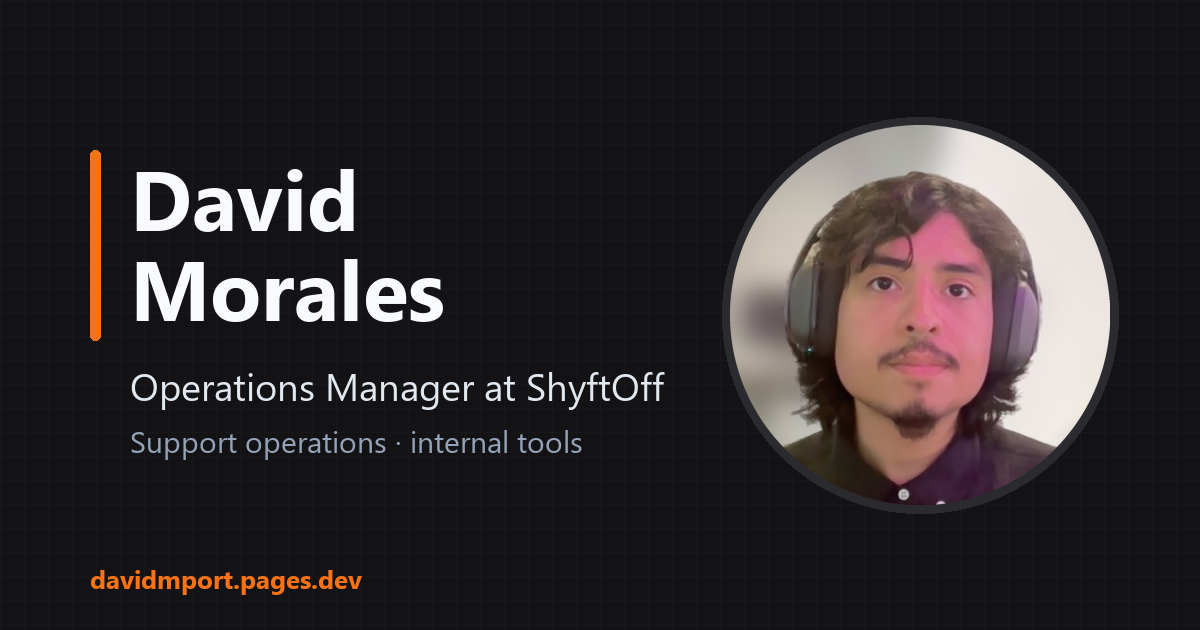
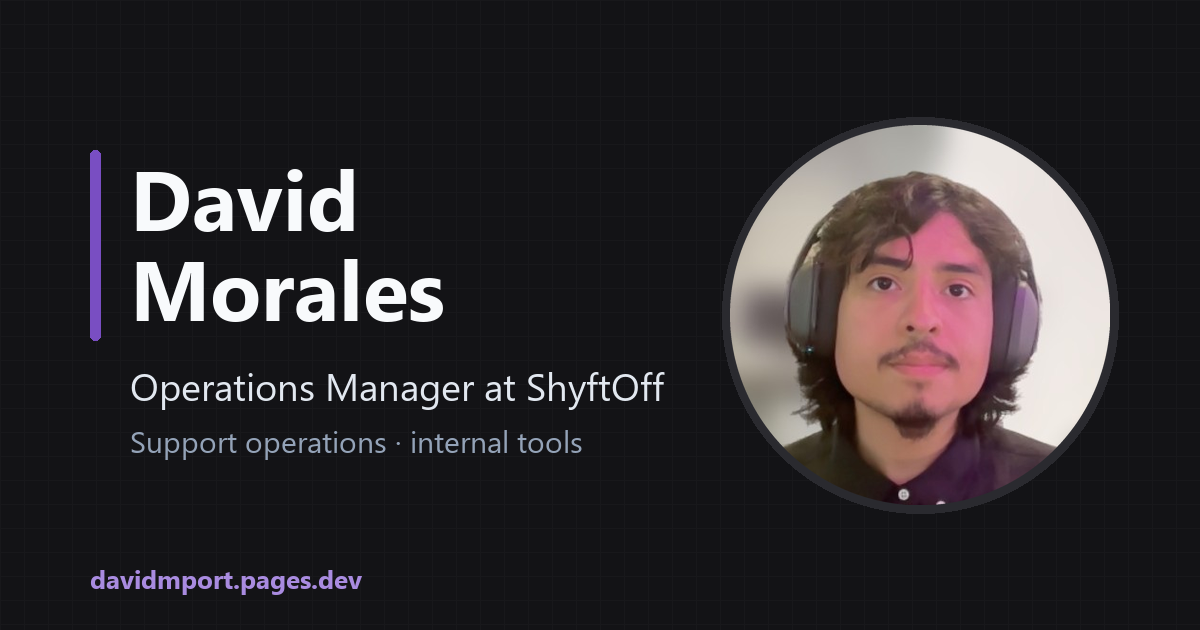
Switch accent color from orange to ShyftOff purple (#794EC2)
Adds primary-light (#A98BE0) for text on dark backgrounds to keep
contrast readable, and primary-dark for hover states.

Changed region(s): [[0.0617, 0.2413, 0.0925, 0.5429], [0.0617, 0.9048, 0.3083, 0.9349]]

diff --git a/src/components/layout/Navbar.tsx b/src/components/layout/Navbar.tsx
@@ -31,7 +31,7 @@ export function Navbar() {
             <Container className="flex items-center justify-between">
                 <a href="#top" className="flex items-center gap-2 group">
                     <div className="p-2 rounded-lg bg-surface group-hover:bg-primary/20 transition-colors">
-                        <Terminal className="w-5 h-5 text-primary" />
+                        <Terminal className="w-5 h-5 text-primary-light" />
                     </div>
                     <span className="font-heading font-bold text-xl tracking-tight text-text-primary">
                         David Morales
@@ -44,7 +44,7 @@ export function Navbar() {
                         <a
                             key={link.label}
                             href={link.href}
-                            className="text-sm font-medium text-text-secondary hover:text-primary transition-colors"
+                            className="text-sm font-medium text-text-secondary hover:text-primary-light transition-colors"
                         >
                             {link.label}
                         </a>
@@ -53,7 +53,7 @@ export function Navbar() {
                         href="/resume.pdf"
                         target="_blank"
                         rel="noopener noreferrer"
-                        className="text-sm font-medium text-text-secondary hover:text-primary transition-colors flex items-center gap-1"
+                        className="text-sm font-medium text-text-secondary hover:text-primary-light transition-colors flex items-center gap-1"
                     >
                         <FileText size={14} />
                         Resume
@@ -86,7 +86,7 @@ export function Navbar() {
                         <a
                             key={link.label}
                             href={link.href}
-                            className="text-lg font-medium text-text-secondary hover:text-primary"
+                            className="text-lg font-medium text-text-secondary hover:text-primary-light"
                             onClick={() => setIsMobileMenuOpen(false)}
                         >
                             {link.label}
@@ -96,7 +96,7 @@ export function Navbar() {
                         href="/resume.pdf"
                         target="_blank"
                         rel="noopener noreferrer"
-                        className="text-lg font-medium text-text-secondary hover:text-primary flex items-center gap-2"
+                        className="text-lg font-medium text-text-secondary hover:text-primary-light flex items-center gap-2"
                         onClick={() => setIsMobileMenuOpen(false)}
                     >
                         <FileText size={18} />

diff --git a/src/components/sections/Experience.tsx b/src/components/sections/Experience.tsx
@@ -129,7 +129,7 @@ export function Experience() {
                                     style={{ gridColumn: `span ${g.span}` }}
                                     className={clsx(
                                         "text-center text-xs font-semibold uppercase tracking-wider pb-2 border-b-2 transition-colors",
-                                        g.company === job.company ? "text-primary border-primary/60" : "text-slate-500 border-white/10"
+                                        g.company === job.company ? "text-primary-light border-primary/60" : "text-slate-500 border-white/10"
                                     )}
                                 >
                                     {g.company}
@@ -166,7 +166,7 @@ export function Experience() {
                                                     className={clsx(
                                                         "relative rounded-full border-2 transition-all",
                                                         isActive
-                                                            ? "h-5 w-5 bg-primary border-primary shadow-[0_0_16px_rgba(249,115,22,0.6)]"
+                                                            ? "h-5 w-5 bg-primary border-primary shadow-[0_0_16px_rgba(121,78,194,0.7)]"
                                                             : i < active
                                                                 ? "h-3.5 w-3.5 bg-primary/40 border-primary/60 group-hover:bg-primary/70"
                                                                 : "h-3.5 w-3.5 bg-background border-white/30 group-hover:border-primary/60",
@@ -176,7 +176,7 @@ export function Experience() {
                                             </span>
                                             <span className={clsx(
                                                 "mt-4 text-xs font-medium transition-colors",
-                                                isActive ? "text-primary" : "text-slate-500"
+                                                isActive ? "text-primary-light" : "text-slate-500"
                                             )}>
                                                 {r.start.split(" ")[1]}
                                             </span>

diff --git a/src/components/sections/About.tsx b/src/components/sections/About.tsx
@@ -11,10 +11,10 @@ export function About() {
                 </p>
 
                 <div className="flex justify-center gap-6">
-                    <a href="mailto:dmorales53@hawkmail.hccfl.edu" className="p-4 rounded-full bg-surface hover:bg-primary/20 hover:text-primary transition-colors border border-white/10">
+                    <a href="mailto:dmorales53@hawkmail.hccfl.edu" className="p-4 rounded-full bg-surface hover:bg-primary/20 hover:text-primary-light transition-colors border border-white/10">
                         <Mail className="w-6 h-6" />
                     </a>
-                    <a href="https://www.linkedin.com/in/david-m-30a5b4224/" target="_blank" rel="noopener noreferrer" className="p-4 rounded-full bg-surface hover:bg-primary/20 hover:text-primary transition-colors border border-white/10">
+                    <a href="https://www.linkedin.com/in/david-m-30a5b4224/" target="_blank" rel="noopener noreferrer" className="p-4 rounded-full bg-surface hover:bg-primary/20 hover:text-primary-light transition-colors border border-white/10">
                         <Linkedin className="w-6 h-6" />
                     </a>
 

diff --git a/src/components/layout/Footer.tsx b/src/components/layout/Footer.tsx
@@ -14,10 +14,10 @@ export function Footer() {
                     </p>
                 </div>
                 <div className="flex gap-6">
-                    <a href="https://www.linkedin.com/in/david-m-30a5b4224/" target="_blank" rel="noopener noreferrer" className="text-text-secondary hover:text-primary transition-colors text-sm">
+                    <a href="https://www.linkedin.com/in/david-m-30a5b4224/" target="_blank" rel="noopener noreferrer" className="text-text-secondary hover:text-primary-light transition-colors text-sm">
                         <Linkedin size={20} />
                     </a>
-                    <a href="mailto:dmorales53@hawkmail.hccfl.edu" className="text-text-secondary hover:text-primary transition-colors text-sm">
+                    <a href="mailto:dmorales53@hawkmail.hccfl.edu" className="text-text-secondary hover:text-primary-light transition-colors text-sm">
                         <Mail size={20} />
                     </a>
                 </div>

diff --git a/src/components/sections/ProofOfWork.tsx b/src/components/sections/ProofOfWork.tsx
@@ -33,7 +33,7 @@ export function ProofOfWork() {
                             <div className="absolute top-0 right-0 p-6 opacity-[0.02] text-6xl font-heading font-bold group-hover:opacity-[0.04] transition-opacity">
                                 {item.icon}
                             </div>
-                            <h3 className="text-2xl font-bold text-slate-100 mb-4 group-hover:text-primary transition-colors">{item.title}</h3>
+                            <h3 className="text-2xl font-bold text-slate-100 mb-4 group-hover:text-primary-light transition-colors">{item.title}</h3>
                             <p className="text-slate-300 leading-relaxed">{item.desc}</p>
                         </div>
                     ))}

diff --git a/src/components/sections/Hero.tsx b/src/components/sections/Hero.tsx
@@ -34,7 +34,7 @@ export function Hero() {
                         <div className="flex flex-col sm:flex-row gap-4">
                             <a
                                 href="mailto:dmorales53@hawkmail.hccfl.edu"
-                                className="px-8 py-4 rounded-lg bg-primary text-white font-bold hover:bg-orange-600 transition-colors flex items-center justify-center gap-2"
+                                className="px-8 py-4 rounded-lg bg-primary text-white font-bold hover:bg-primary-dark transition-colors flex items-center justify-center gap-2"
                             >
                                 Email Me <ArrowDown size={18} className="rotate-[-45deg]" />
                             </a>

diff --git a/tailwind.config.js b/tailwind.config.js
@@ -9,7 +9,11 @@ export default {
       colors: {
         background: '#131316', // Warm/Neutral Charcoal
         surface: '#202024',    // Neutral Surface
-        primary: '#F97316',    // Electric Orange
+        primary: {
+          DEFAULT: '#794EC2', // ShyftOff Purple
+          light: '#A98BE0',   // Purple tint for text on dark backgrounds
+          dark: '#673FAB',    // Hover state
+        },
         secondary: '#10B981',  // Emerald
         text: {
           primary: '#F8FAFC',  // Slate 50
